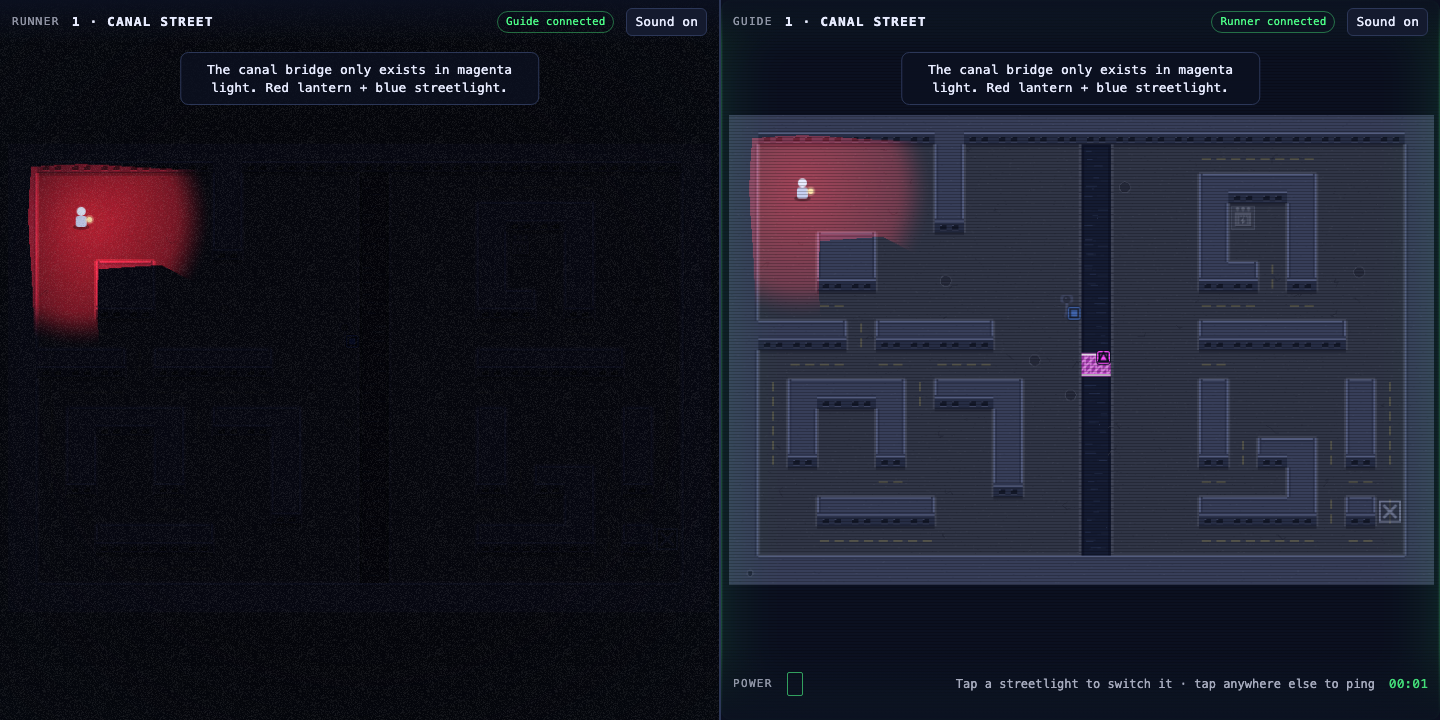
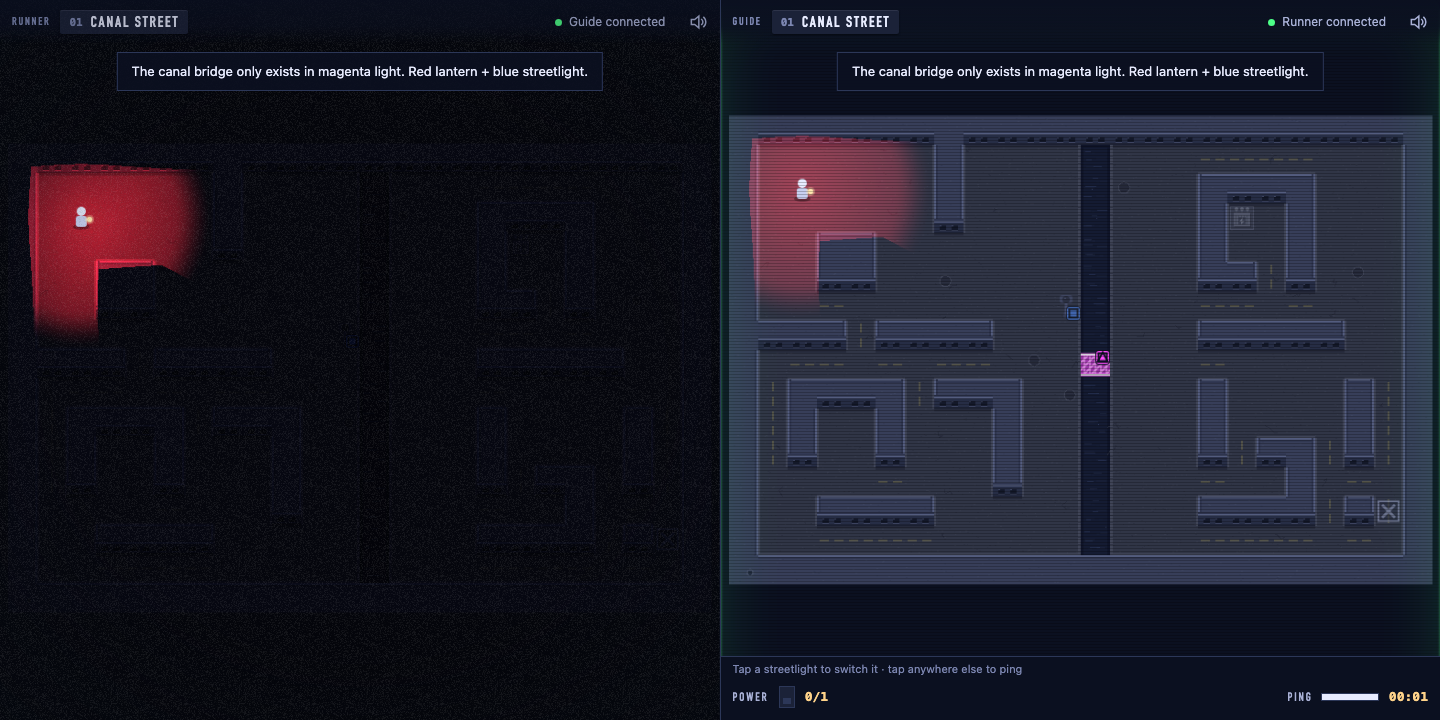
Ease district 3's drone gauntlet and tighten the hit radius
Assisted-By: Claude Opus 5.5

diff --git a/src/scenes/Runner.ts b/src/scenes/Runner.ts
@@ -293,7 +293,7 @@ export class RunnerScene extends Phaser.Scene {
       d.img.setVisible(visible);
       const dist = Math.hypot(p.x - rx, p.y - ry);
       if (visible) nearest = Math.min(nearest, dist);
-      if (dist < 0.6 && time > this.invulnUntil) { this.respawn("A security drone caught you."); return; }
+      if (dist < 0.5 && time > this.invulnUntil) { this.respawn("A security drone caught you."); return; }
     }
     sfx.drone(nearest === Infinity ? 0 : Math.max(0, 1 - nearest / 6));
     if (this.dronesDirty && time - this.lastDroneSend >= 200) {

diff --git a/docs/DEVLOG.md b/docs/DEVLOG.md
@@ -33,3 +33,14 @@ Empty repo. Plan and rules live in [HANDOFF.md](../HANDOFF.md).
 
 ![Title](shots/title.png)
 ![Lobby](shots/lobby.png)
+
+## 13:20 Districts 2–3, art pass, UI pass, and a solver bug the autoplayer caught
+- **Districts.** "Market Lights" introduces green drones that hide in red light. "Old Locks" chains a yellow door, a two-tile cyan bridge (green + blue streetlights; the lantern doesn't matter), and a magenta door, with only 2 lights allowed at once. Tests prove each district is solvable, unsolvable without the Guide, and that walling up any single gate breaks it.
+- **Art pass** (`src/render/`). Each light is a smooth radial falloff clipped by its shadow polygon and cached per streetlight. The lightmap uses a custom 2× modulate blend, so lit art can get brighter as well as darker. The city is baked into one texture per district: streets with lane dashes, roofs with facades, and a canal with shimmer. Powering a substation turns its block's windows on one by one. Lamps flicker when switched on. The Runner gets a vignette and grain; the Guide gets scanlines and a CRT edge.
+- **UI pass** ("The Breaker Room", see [DESIGN.md](../DESIGN.md)). The title, HUD, and credits look like a utility room with the power off, with color only where light or live state exists. The title wordmark is lit by two streetlights and a red lantern that follows the pointer, so you see magenta and yellow before reading any rule.
+- **Autoplayer.** The solver now returns its action plan, and `scripts/autoplay.mjs` plays every district in a real headless browser, waiting out drones and replanning after each death.
+- **Bug it found.** The autoplayer died 49 times in a row in district 3's yellow door. The game sends the Runner back when the light under their door goes out, but the solver didn't know that rule. Its plan switched the green light off with the Runner standing in the doorway. The solver now never plans a toggle that strands the Runner, so solver and game agree again.
+- **Tuning.** Even with that fixed, three drones guarding the only corridor east of the cyan bridge made district 3 a grind: each death meant re-raising the bridge. The drones are now about 20% slower, and the hit radius is half a tile.
+
+![District 1, art pass](shots/d1-magenta-bridge.png)
+![Title, UI pass](shots/title.png)
